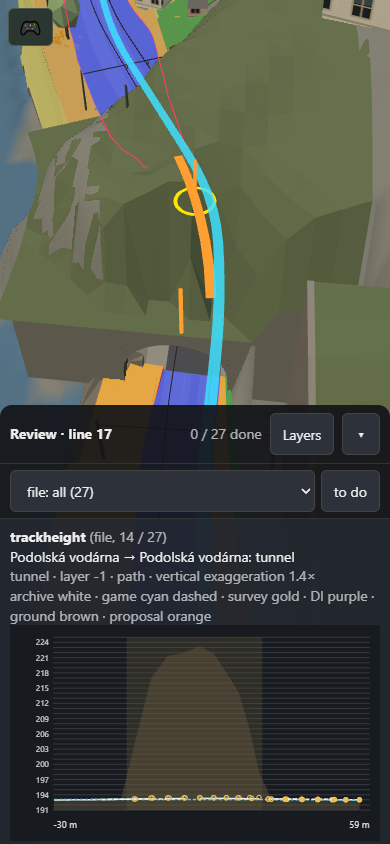
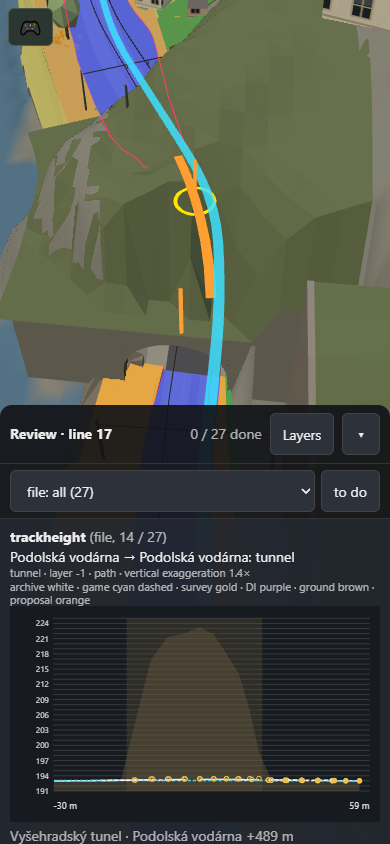
Fix isolated evidence import and label embankments

Changed region(s): [[0.0308, 0.6777, 0.9538, 1.0]]

diff --git a/src/trackHeightProfile.js b/src/trackHeightProfile.js
@@ -87,6 +87,7 @@ export function heightProfile(f, route, profile) {
   svg += `<line id="heightCursor" x1="0" x2="0" y1="${top}" y2="${bottom}" stroke="#fff" visibility="hidden"/><text x="${left}" y="198" fill="#ddd" font-size="9">${Math.round(x0)} m</text><text x="${right}" y="198" fill="#ddd" font-size="9" text-anchor="end">${Math.round(x1)} m</text></svg>`;
   const exaggeration = ((bottom-top)/(right-left)*(x1-x0)/(z1-z0)).toFixed(1);
   const layers = [...new Set(Object.values(main.structure.tags || {}).map((t)=>t.layer).filter((x)=>x !== undefined))];
-  return { html:`<div class="dim">${esc(main.structure.kind)}${layers.length ? ` · layer ${esc(layers.join(', '))}` : ''} · ${esc(main.direction)} · vertical exaggeration ${exaggeration}×<br>archive white · game cyan dashed · survey gold · DI purple · ground brown · proposal orange</div>${svg}`,
+  const embankment = Object.values(main.structure.tags || {}).some((t)=>t.embankment && t.embankment !== 'no');
+  return { html:`<div class="dim" style="font-size:11px;line-height:1.2">${esc(main.structure.kind)}${embankment ? ' · embankment' : ''}${layers.length ? ` · layer ${esc(layers.join(', '))}` : ''} · ${esc(main.direction)} · vertical exaggeration ${exaggeration}×<br>archive white · game cyan dashed · survey gold · DI purple · ground brown · proposal orange</div>${svg}`,
     points:series[0].points, x0, x1, left, right, width:w };
 }

diff --git a/tools/test_track_height_profile.py b/tools/test_track_height_profile.py
@@ -45,7 +45,7 @@ class HeightProfile(unittest.TestCase):
                 result=page.evaluate('''async () => {
                   const {heightProfile}=await import('/src/trackHeightProfile.js');
                   const point=(s,z)=>({s,xy:[s,0],archive:[{z}],surfaces:[{class:'road',level:0,z:z+1,rail_height_eligible:true}],di_z:z,ipr_terrain_z:z-2});
-                  const span={line:17,direction:'path',length_m:10,start_s:0,structure:{kind:'bridge',tags:{a:{layer:'1'}}},
+                  const span={line:17,direction:'path',length_m:10,start_s:0,structure:{kind:'bridge',tags:{a:{layer:'1',embankment:'yes'}}},
                     structure_extent:[0,10],profile:[point(0,200),point(10,201)],proposal:{rule:'linear_di_portals',ends:[200,201]}};
                   const back={...span,direction:'pathBack',profile:[point(0,202),point(10,203)]};
                   const route={nearest(x,y){return {s:x,d:0}}}, profile={height(s){return 200+s/10}};
@@ -53,7 +53,8 @@ class HeightProfile(unittest.TestCase):
                   const b=heightProfile({spans:[{...span,profile:[point(0,200)]}]},route,profile);
                   return {svg:a.html.includes('heightProfile'),di:a.html.includes('DI 200.00'),
                     surface:a.html.includes('road level 0'),conflict:a.html.includes('Directions differ'),
-                    proposal:a.html.includes('#ff9e31'), layer:a.html.includes('layer 1'),single:!!b};
+                    proposal:a.html.includes('#ff9e31'), layer:a.html.includes('layer 1'),
+                    embankment:a.html.includes('embankment'),single:!!b};
                 }''')
                 self.assertTrue(all(result.values()),result)
                 browser.close()

diff --git a/tools/test_track_structure_review.py b/tools/test_track_structure_review.py
@@ -53,7 +53,7 @@ class SpanReviews(unittest.TestCase):
             root=Path(tmp)
             (root/'answers.json').write_text(json.dumps({'items':{'pin':answer}}),encoding='utf-8')
             (root/'findings.json').write_text(json.dumps({'findings':[finding]}),encoding='utf-8')
-            subprocess.run([sys.executable,str(Path(__file__).with_name('track_span_evidence.py')),
+            subprocess.run([sys.executable,'-P','-E',str(Path(__file__).with_name('track_span_evidence.py')),
                 '--from-reviews',str(root/'answers.json'),'--findings',str(root/'findings.json'),
                 '--output',str(root/'out.json')],check=True,capture_output=True,text=True)
             self.assertEqual(json.loads((root/'out.json').read_text(encoding='utf-8'))['span_reviews'][0]['id'],'review-bridge-1')

diff --git a/tools/track_span_evidence.py b/tools/track_span_evidence.py
@@ -4,6 +4,7 @@ from datetime import datetime, timezone
 import json
 import math
 from pathlib import Path
+import sys
 
 from shapely.geometry import LineString, Point
 
@@ -149,6 +150,7 @@ def main():
     args = ap.parse_args()
     result = from_reviews(json.loads(args.from_reviews.read_text(encoding='utf-8')),
                           json.loads(args.findings.read_text(encoding='utf-8')),str(args.from_reviews))
+    sys.path.insert(0,str(Path(__file__).resolve().parent))
     from atomic import replacing
     args.output.parent.mkdir(parents=True,exist_ok=True)
     with replacing(args.output,'w',encoding='utf-8') as f:
